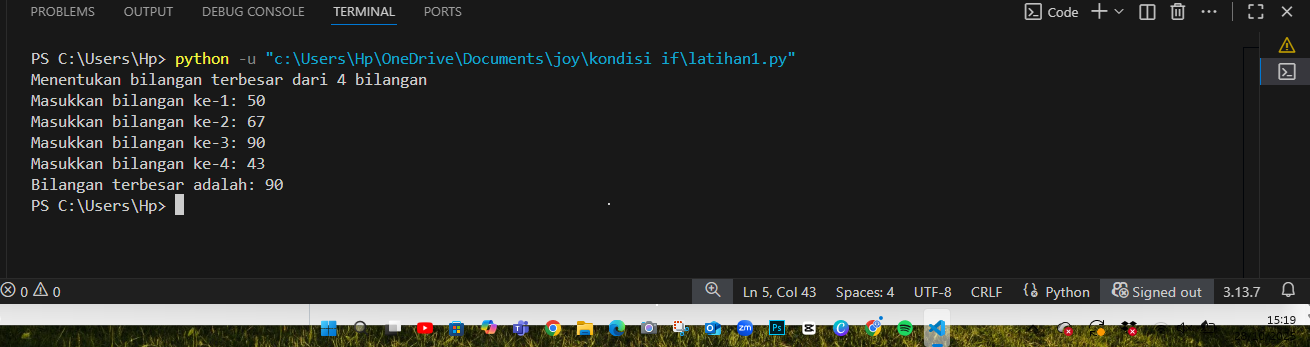
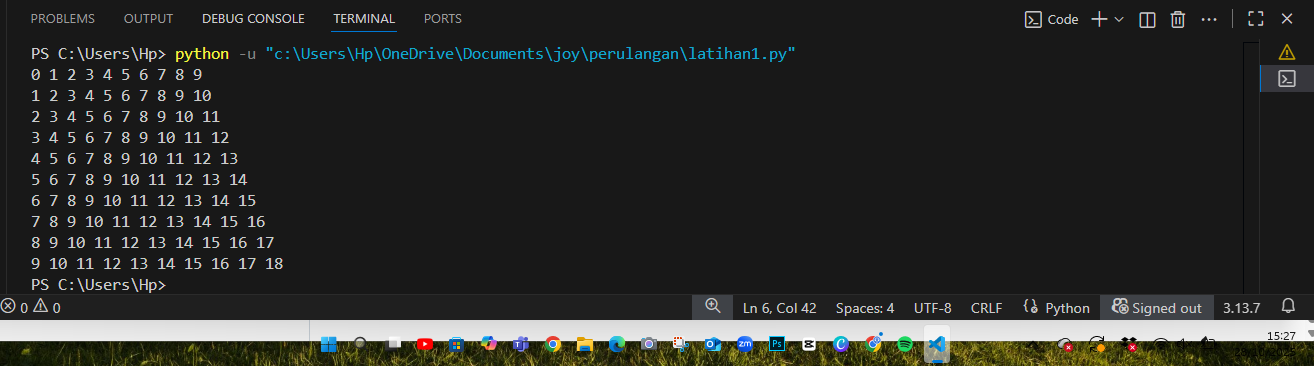
perulangan

diff --git a/latihan1.py b/latihan1.py
@@ -1,16 +1,6 @@
-print("Menentukan bilangan terbesar dari 4 bilangan")
+# Latihan 1 - Perulangan bertingkat
 
-a = int(input("Masukkan bilangan ke-1: "))
-b = int(input("Masukkan bilangan ke-2: "))
-c = int(input("Masukkan bilangan ke-3: "))
-d = int(input("Masukkan bilangan ke-4: "))
-
-maks = a
-if b > maks:
-    maks = b
-if c > maks:
-    maks = c
-if d > maks:
-    maks = d
-
-print("Bilangan terbesar adalah:", maks)
+for i in range(10):          # baris (0 sampai 9)
+    for j in range(10):      # kolom (0 sampai 9)
+        print(i + j, end=" ")  # jumlahkan i + j dan tampilkan di baris yang sama
+    print()  # pindah ke baris berikutnya

diff --git a/latihan2.py b/latihan2.py
@@ -1,10 +1,10 @@
-print("Program mengurutkan data")
+import random
 
-n1 = int(input("Bilangan ke-1: "))
-n2 = int(input("Bilangan ke-2: "))
-n3 = int(input("Bilangan ke-3: "))
+n = int(input("Masukkan jumlah n: "))
+count = 0
 
-data = [n1, n2, n3]
-data.sort()
-
-print("Urutan bilangan:", data)
+while count < n:
+    angka = random.random()  # menghasilkan angka dari 0 sampai <1
+    if angka < 0.5:
+        print(angka)
+        count += 1
